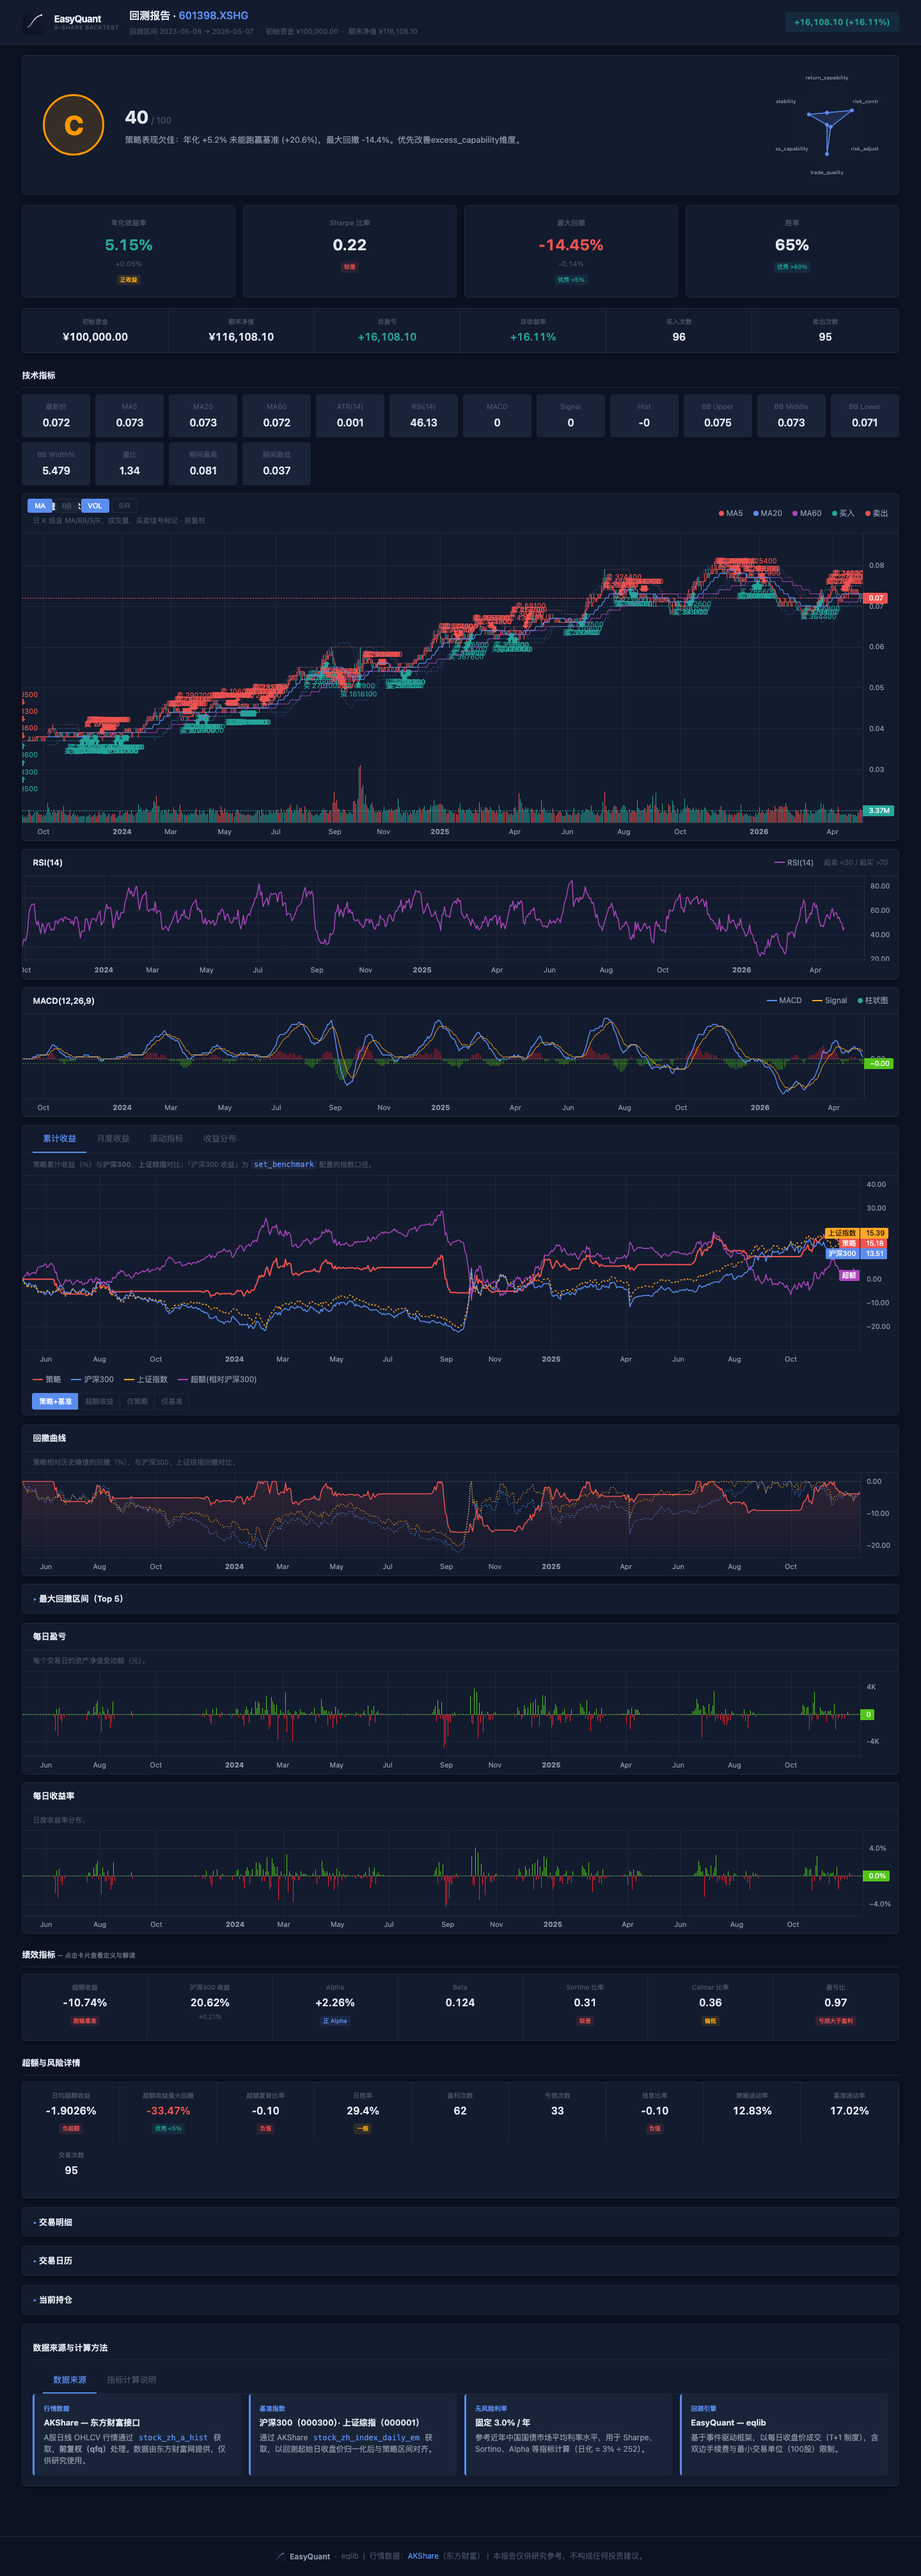
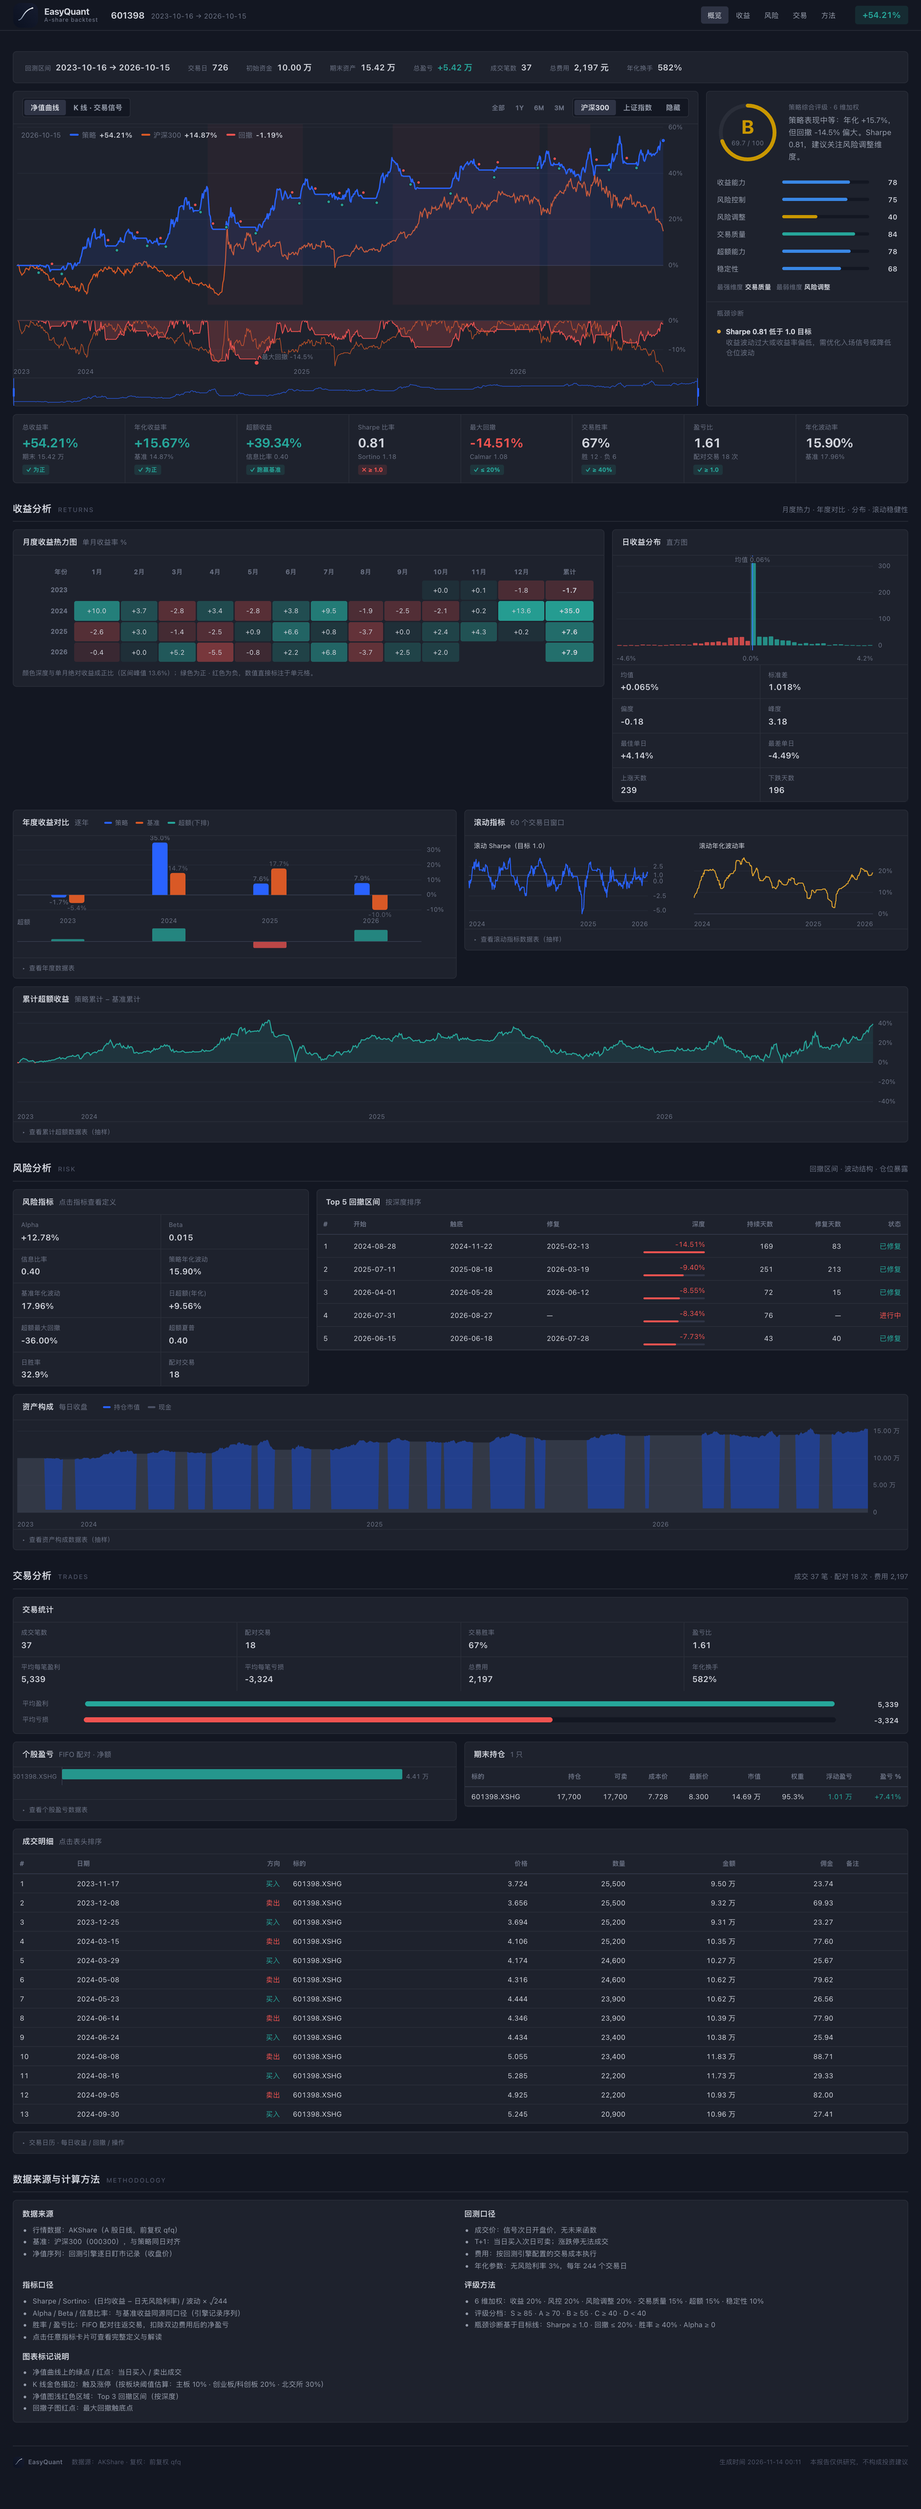
docs(report): regenerate all HTML report screenshots with the new design
All 7 report screenshots in docs/assets/tutorials/ regenerated from real
offline runs (use_local=True) against the rebuilt report:

- bollinger (ex15, 601088), macd_volume (ex16, 002594), grid (ex18, 601398),
  multifactor (ex17, 7-stock pool), portfolio (ex11 momentum top-3),
  19_localdata (ex06 strategy replica on 601398), stock_selection (MA cross
  on 002384, local data)
- read-reports / 02-backtesting: drop stale "CDN blocked" guidance, fix the
  "Example 22" caption (no such example produces that slot), document the
  offline guarantee
- report: bare stock codes in topbar/switcher/legend (601398, not
  601398.XSHG)

Also migrates the local CSV cache (data/, gitignored) from legacy lots (手)
to the required shares-unit contract: volume x100 + .meta.json sidecars with
real coverage ranges — restores offline example runs and fixes
test_repo_sample_csvs_satisfy_loader_contract.

diff --git a/eqlib/static/report.js b/eqlib/static/report.js
@@ -819,7 +819,7 @@
       function v(a) { return idx >= 0 && idx < a.length ? a[idx] : null; }
       var o = v(kd.o), h2 = v(kd.h), l = v(kd.l), c2 = v(kd.c), vol = v(kd.v);
       var chg = isNum(c2) && isNum(o) ? (c2 - o) / o * 100 : null;
-      var htm = '<span class="lg-item"><span class="lg-name">' + symbol + ' · ' + dates[idx] + '</span></span>';
+      var htm = '<span class="lg-item"><span class="lg-name">' + symbol.replace(/\.(XSHG|XSHE)$/, '') + ' · ' + dates[idx] + '</span></span>';
       htm += '<span class="lg-item"><span class="lg-name">开</span><span class="lg-val">' + fmtNum(o) + '</span></span>';
       htm += '<span class="lg-item"><span class="lg-name">高</span><span class="lg-val">' + fmtNum(h2) + '</span></span>';
       htm += '<span class="lg-item"><span class="lg-name">低</span><span class="lg-val">' + fmtNum(l) + '</span></span>';
@@ -1569,7 +1569,8 @@
     var syms = DATA.meta.symbols || [DATA.meta.symbol];
     syms.forEach(function (s) {
       var b = document.createElement('button');
-      b.type = 'button'; b.textContent = s;
+      b.type = 'button'; b.textContent = s.replace(/\.(XSHG|XSHE)$/, '');
+      b.title = s;
       if (s === currentSymbol) b.classList.add('active');
       b.addEventListener('click', function () {
         currentSymbol = s;

diff --git a/eqlib/report.py b/eqlib/report.py
@@ -1206,7 +1206,7 @@ def _build_report_payload(result, chart, metrics, bench_data):
 
     return {
         "meta": {
-            "symbol": chart.get("symbol") or "",
+            "symbol": (chart.get("symbol") or "").replace(".XSHG", "").replace(".XSHE", ""),
             "symbols": chart.get("symbols_list") or [],
             "start": str(ctx.start_date),
             "end": str(ctx.end_date),

diff --git a/docs/tutorials/02-backtesting.en.md b/docs/tutorials/02-backtesting.en.md
@@ -91,7 +91,7 @@ A real backtest writes four sets of files (`.html` / `.png` / `.md` / `.json`) u
 
 The abstract "strategy vs benchmark" line chart is still available at: `../assets/tutorials/sample_equity_vs_benchmark.svg`.
 
-**Cross-referencing the HTML header and metric card readings:** After opening your locally generated `.html`, cross-reference each item against the metric definitions in the [Report Format Guide](../reference/reports-format.md); if the chart area is blank, it's likely due to CDN blocking — see the [FAQ](../project/faq.md).
+**Cross-referencing the HTML header and metric card readings:** After opening your locally generated `.html`, cross-reference each item against the metric definitions in the [Report Format Guide](../reference/reports-format.md); the report is a fully offline single file (no CDN), so if a chart area is empty, first check that JavaScript is enabled — see the [FAQ](../project/faq.md).
 
 ---
 

diff --git a/docs/tutorials/02-backtesting.md b/docs/tutorials/02-backtesting.md
@@ -91,7 +91,7 @@
 
 抽象「策略 vs 基准」折线示意见仍保留：`../assets/tutorials/sample_equity_vs_benchmark.svg`。
 
-**对照 HTML 页眉与指标卡片读数：**打开本地生成的 `.html` 后，按 [报告格式详解](../reference/reports-format.md) 的指标说明逐条对照；若图区空白，多为 CDN 被拦，见 [FAQ](../project/faq.md)。
+**对照 HTML 页眉与指标卡片读数：**打开本地生成的 `.html` 后，按 [报告格式详解](../reference/reports-format.md) 的指标说明逐条对照；报告为全离线单文件（无 CDN 依赖），图区为空时先确认浏览器启用了 JavaScript，见 [FAQ](../project/faq.md)。
 
 ---
 

diff --git a/docs/how-to/read-reports.en.md b/docs/how-to/read-reports.en.md
@@ -135,7 +135,7 @@ Open the `.html` file **directly in your browser** (double-click or File → Ope
 
 ### 3.1 HTML Report Page Overview
 
-After opening the `.html` file, the page is roughly divided into the following sections (screenshot below is from an Example 22 stock selection strategy backtest):
+After opening the `.html` file, the page is roughly divided into the following sections (the screenshot below is from a real single-stock moving-average strategy backtest on 002384 using local data):
 
 ![Stock selection strategy HTML report screenshot](../assets/tutorials/example_report_html_stock_selection.png)
 

diff --git a/docs/how-to/read-reports.md b/docs/how-to/read-reports.md
@@ -135,7 +135,7 @@ result = run_strategy(
 
 ### 3.1 HTML 报告页面概览
 
-打开 `.html` 文件后，你看到的页面大致分为以下区块（以下为 Example 22 选股策略的回测截图）：
+打开 `.html` 文件后，你看到的页面大致分为以下区块（下图为单标的均线策略（002384，本地数据）的一次真实回测截图）：
 
 ![选股策略 HTML 报告截图](../assets/tutorials/example_report_html_stock_selection.png)
 
